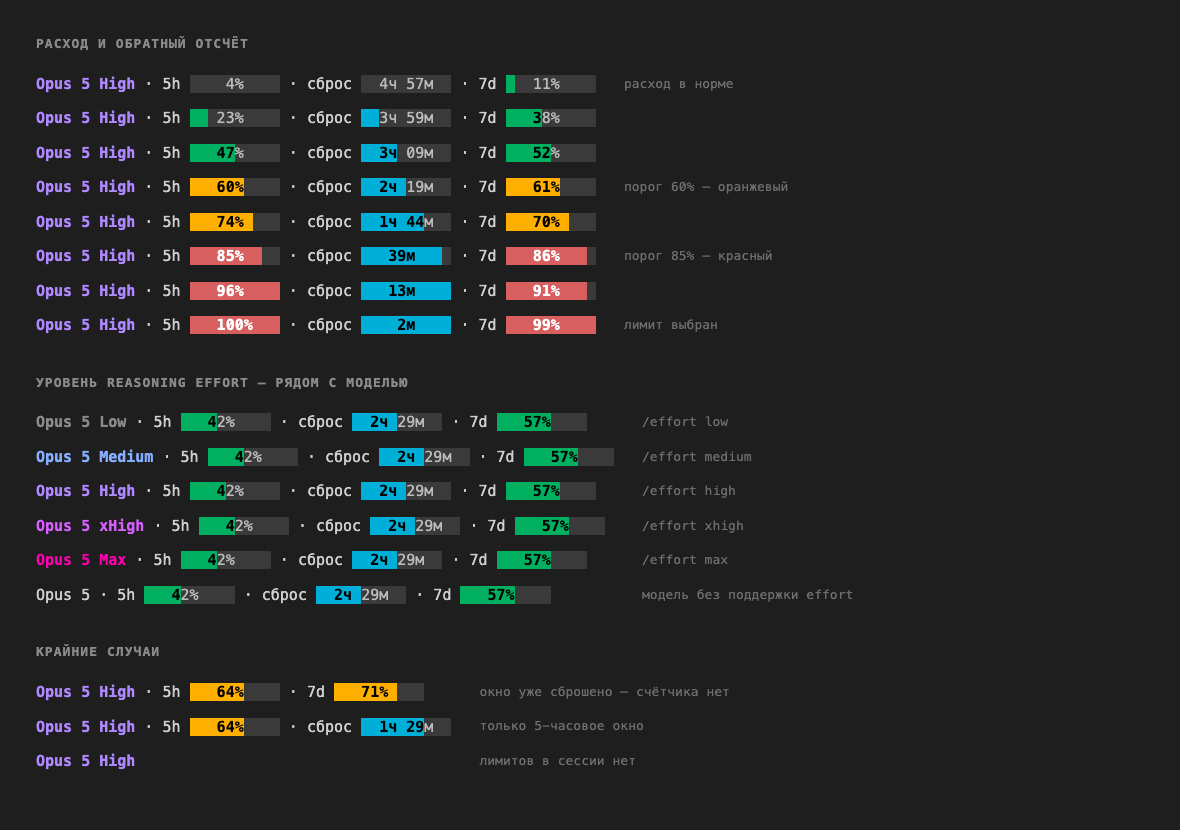
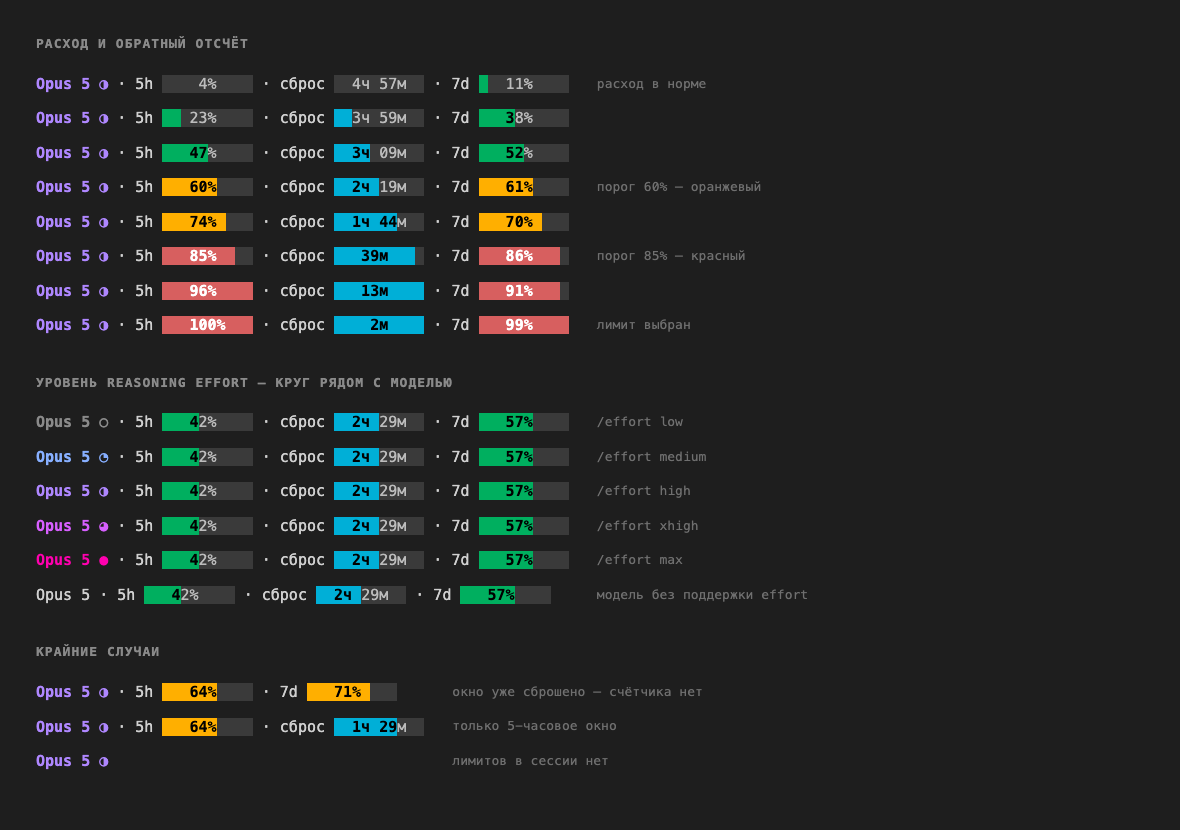
feat: показывать уровень effort фазой круга вместо слова
`Opus 5 High` заметно удлиняло строку. Круг заполняется от `low` (`○`)
до `max` (`●`) — те же символы, что использует сам Claude Code.

diff --git a/docs/statusline-demo.html b/docs/statusline-demo.html
@@ -1,1 +1,1 @@
-<!doctype html><meta charset='utf-8'><title>Строка статуса — состояния</title><style>body{background:#1e1e1e;color:#d0d0d0;font:15px/1.9 'SF Mono',Menlo,monospace;padding:32px 36px;margin:0}h2{font-size:13px;font-weight:600;color:#8a8a8a;letter-spacing:.08em;text-transform:uppercase;margin:28px 0 10px}h2:first-child{margin-top:0}table{border-collapse:collapse}td{padding:3px 0;vertical-align:middle;white-space:nowrap}.note{color:#6f6f6f;font-size:13px;padding-left:28px}</style><h2>Расход и обратный отсчёт</h2><table><tr><td class="line"><span style="color:#af87ff;font-weight:700">Opus&nbsp;5&nbsp;High</span>&nbsp;·&nbsp;5h&nbsp;<span style="color:#bcbcbc;background:#3a3a3a">&nbsp;&nbsp;&nbsp;&nbsp;4%&nbsp;&nbsp;&nbsp;&nbsp;</span>&nbsp;·&nbsp;сброс&nbsp;<span style="color:#bcbcbc;background:#3a3a3a">&nbsp;&nbsp;4ч&nbsp;57м&nbsp;&nbsp;</span>&nbsp;·&nbsp;7d&nbsp;<span style="color:#000000;background:#00af5f;font-weight:700">&nbsp;</span><span style="color:#bcbcbc;background:#3a3a3a">&nbsp;&nbsp;11%&nbsp;&nbsp;&nbsp;&nbsp;</span></td><td class="note">расход в норме</td></tr><tr><td class="line"><span style="color:#af87ff;font-weight:700">Opus&nbsp;5&nbsp;High</span>&nbsp;·&nbsp;5h&nbsp;<span style="color:#000000;background:#00af5f;font-weight:700">&nbsp;&nbsp;</span><span style="color:#bcbcbc;background:#3a3a3a">&nbsp;23%&nbsp;&nbsp;&nbsp;&nbsp;</span>&nbsp;·&nbsp;сброс&nbsp;<span style="color:#000000;background:#00afd7;font-weight:700">&nbsp;&nbsp;</span><span style="color:#bcbcbc;background:#3a3a3a">3ч&nbsp;59м&nbsp;&nbsp;</span>&nbsp;·&nbsp;7d&nbsp;<span style="color:#000000;background:#00af5f;font-weight:700">&nbsp;&nbsp;&nbsp;3</span><span style="color:#bcbcbc;background:#3a3a3a">8%&nbsp;&nbsp;&nbsp;&nbsp;</span></td><td class="note"></td></tr><tr><td class="line"><span style="color:#af87ff;font-weight:700">Opus&nbsp;5&nbsp;High</span>&nbsp;·&nbsp;5h&nbsp;<span style="color:#000000;background:#00af5f;font-weight:700">&nbsp;&nbsp;&nbsp;47</span><span style="color:#bcbcbc;background:#3a3a3a">%&nbsp;&nbsp;&nbsp;&nbsp;</span>&nbsp;·&nbsp;сброс&nbsp;<span style="color:#000000;background:#00afd7;font-weight:700">&nbsp;&nbsp;3ч</span><span style="color:#bcbcbc;background:#3a3a3a">&nbsp;09м&nbsp;&nbsp;</span>&nbsp;·&nbsp;7d&nbsp;<span style="color:#000000;background:#00af5f;font-weight:700">&nbsp;&nbsp;&nbsp;52</span><span style="color:#bcbcbc;background:#3a3a3a">%&nbsp;&nbsp;&nbsp;&nbsp;</span></td><td class="note"></td></tr><tr><td class="line"><span style="color:#af87ff;font-weight:700">Opus&nbsp;5&nbsp;High</span>&nbsp;·&nbsp;5h&nbsp;<span style="color:#000000;background:#ffaf00;font-weight:700">&nbsp;&nbsp;&nbsp;60%</span><span style="color:#bcbcbc;background:#3a3a3a">&nbsp;&nbsp;&nbsp;&nbsp;</span>&nbsp;·&nbsp;сброс&nbsp;<span style="color:#000000;background:#00afd7;font-weight:700">&nbsp;&nbsp;2ч&nbsp;</span><span style="color:#bcbcbc;background:#3a3a3a">19м&nbsp;&nbsp;</span>&nbsp;·&nbsp;7d&nbsp;<span style="color:#000000;background:#ffaf00;font-weight:700">&nbsp;&nbsp;&nbsp;61%</span><span style="color:#bcbcbc;background:#3a3a3a">&nbsp;&nbsp;&nbsp;&nbsp;</span></td><td class="note">порог 60% — оранжевый</td></tr><tr><td class="line"><span style="color:#af87ff;font-weight:700">Opus&nbsp;5&nbsp;High</span>&nbsp;·&nbsp;5h&nbsp;<span style="color:#000000;background:#ffaf00;font-weight:700">&nbsp;&nbsp;&nbsp;74%&nbsp;</span><span style="color:#bcbcbc;background:#3a3a3a">&nbsp;&nbsp;&nbsp;</span>&nbsp;·&nbsp;сброс&nbsp;<span style="color:#000000;background:#00afd7;font-weight:700">&nbsp;&nbsp;1ч&nbsp;44</span><span style="color:#bcbcbc;background:#3a3a3a">м&nbsp;&nbsp;</span>&nbsp;·&nbsp;7d&nbsp;<span style="color:#000000;background:#ffaf00;font-weight:700">&nbsp;&nbsp;&nbsp;70%&nbsp;</span><span style="color:#bcbcbc;background:#3a3a3a">&nbsp;&nbsp;&nbsp;</span></td><td class="note"></td></tr><tr><td class="line"><span style="color:#af87ff;font-weight:700">Opus&nbsp;5&nbsp;High</span>&nbsp;·&nbsp;5h&nbsp;<span style="color:#ffffff;background:#d75f5f;font-weight:700">&nbsp;&nbsp;&nbsp;85%&nbsp;&nbsp;</span><span style="color:#bcbcbc;background:#3a3a3a">&nbsp;&nbsp;</span>&nbsp;·&nbsp;сброс&nbsp;<span style="color:#000000;background:#00afd7;font-weight:700">&nbsp;&nbsp;&nbsp;39м&nbsp;&nbsp;&nbsp;</span><span style="color:#bcbcbc;background:#3a3a3a">&nbsp;</span>&nbsp;·&nbsp;7d&nbsp;<span style="color:#ffffff;background:#d75f5f;font-weight:700">&nbsp;&nbsp;&nbsp;86%&nbsp;&nbsp;&nbsp;</span><span style="color:#bcbcbc;background:#3a3a3a">&nbsp;</span></td><td class="note">порог 85% — красный</td></tr><tr><td class="line"><span style="color:#af87ff;font-weight:700">Opus&nbsp;5&nbsp;High</span>&nbsp;·&nbsp;5h&nbsp;<span style="color:#ffffff;background:#d75f5f;font-weight:700">&nbsp;&nbsp;&nbsp;96%&nbsp;&nbsp;&nbsp;&nbsp;</span>&nbsp;·&nbsp;сброс&nbsp;<span style="color:#000000;background:#00afd7;font-weight:700">&nbsp;&nbsp;&nbsp;13м&nbsp;&nbsp;&nbsp;&nbsp;</span>&nbsp;·&nbsp;7d&nbsp;<span style="color:#ffffff;background:#d75f5f;font-weight:700">&nbsp;&nbsp;&nbsp;91%&nbsp;&nbsp;&nbsp;</span><span style="color:#bcbcbc;background:#3a3a3a">&nbsp;</span></td><td class="note"></td></tr><tr><td class="line"><span style="color:#af87ff;font-weight:700">Opus&nbsp;5&nbsp;High</span>&nbsp;·&nbsp;5h&nbsp;<span style="color:#ffffff;background:#d75f5f;font-weight:700">&nbsp;&nbsp;&nbsp;100%&nbsp;&nbsp;&nbsp;</span>&nbsp;·&nbsp;сброс&nbsp;<span style="color:#000000;background:#00afd7;font-weight:700">&nbsp;&nbsp;&nbsp;&nbsp;2м&nbsp;&nbsp;&nbsp;&nbsp;</span>&nbsp;·&nbsp;7d&nbsp;<span style="color:#ffffff;background:#d75f5f;font-weight:700">&nbsp;&nbsp;&nbsp;99%&nbsp;&nbsp;&nbsp;&nbsp;</span></td><td class="note">лимит выбран</td></tr></table><h2>Уровень reasoning effort — рядом с моделью</h2><table><tr><td class="line"><span style="color:#8a8a8a;font-weight:700">Opus&nbsp;5&nbsp;Low</span>&nbsp;·&nbsp;5h&nbsp;<span style="color:#000000;background:#00af5f;font-weight:700">&nbsp;&nbsp;&nbsp;4</span><span style="color:#bcbcbc;background:#3a3a3a">2%&nbsp;&nbsp;&nbsp;&nbsp;</span>&nbsp;·&nbsp;сброс&nbsp;<span style="color:#000000;background:#00afd7;font-weight:700">&nbsp;&nbsp;2ч&nbsp;</span><span style="color:#bcbcbc;background:#3a3a3a">29м&nbsp;&nbsp;</span>&nbsp;·&nbsp;7d&nbsp;<span style="color:#000000;background:#00af5f;font-weight:700">&nbsp;&nbsp;&nbsp;57%</span><span style="color:#bcbcbc;background:#3a3a3a">&nbsp;&nbsp;&nbsp;&nbsp;</span></td><td class="note">/effort low</td></tr><tr><td class="line"><span style="color:#87afff;font-weight:700">Opus&nbsp;5&nbsp;Medium</span>&nbsp;·&nbsp;5h&nbsp;<span style="color:#000000;background:#00af5f;font-weight:700">&nbsp;&nbsp;&nbsp;4</span><span style="color:#bcbcbc;background:#3a3a3a">2%&nbsp;&nbsp;&nbsp;&nbsp;</span>&nbsp;·&nbsp;сброс&nbsp;<span style="color:#000000;background:#00afd7;font-weight:700">&nbsp;&nbsp;2ч&nbsp;</span><span style="color:#bcbcbc;background:#3a3a3a">29м&nbsp;&nbsp;</span>&nbsp;·&nbsp;7d&nbsp;<span style="color:#000000;background:#00af5f;font-weight:700">&nbsp;&nbsp;&nbsp;57%</span><span style="color:#bcbcbc;background:#3a3a3a">&nbsp;&nbsp;&nbsp;&nbsp;</span></td><td class="note">/effort medium</td></tr><tr><td class="line"><span style="color:#af87ff;font-weight:700">Opus&nbsp;5&nbsp;High</span>&nbsp;·&nbsp;5h&nbsp;<span style="color:#000000;background:#00af5f;font-weight:700">&nbsp;&nbsp;&nbsp;4</span><span style="color:#bcbcbc;background:#3a3a3a">2%&nbsp;&nbsp;&nbsp;&nbsp;</span>&nbsp;·&nbsp;сброс&nbsp;<span style="color:#000000;background:#00afd7;font-weight:700">&nbsp;&nbsp;2ч&nbsp;</span><span style="color:#bcbcbc;background:#3a3a3a">29м&nbsp;&nbsp;</span>&nbsp;·&nbsp;7d&nbsp;<span style="color:#000000;background:#00af5f;font-weight:700">&nbsp;&nbsp;&nbsp;57%</span><span style="color:#bcbcbc;background:#3a3a3a">&nbsp;&nbsp;&nbsp;&nbsp;</span></td><td class="note">/effort high</td></tr><tr><td class="line"><span style="color:#d75fff;font-weight:700">Opus&nbsp;5&nbsp;xHigh</span>&nbsp;·&nbsp;5h&nbsp;<span style="color:#000000;background:#00af5f;font-weight:700">&nbsp;&nbsp;&nbsp;4</span><span style="color:#bcbcbc;background:#3a3a3a">2%&nbsp;&nbsp;&nbsp;&nbsp;</span>&nbsp;·&nbsp;сброс&nbsp;<span style="color:#000000;background:#00afd7;font-weight:700">&nbsp;&nbsp;2ч&nbsp;</span><span style="color:#bcbcbc;background:#3a3a3a">29м&nbsp;&nbsp;</span>&nbsp;·&nbsp;7d&nbsp;<span style="color:#000000;background:#00af5f;font-weight:700">&nbsp;&nbsp;&nbsp;57%</span><span style="color:#bcbcbc;background:#3a3a3a">&nbsp;&nbsp;&nbsp;&nbsp;</span></td><td class="note">/effort xhigh</td></tr><tr><td class="line"><span style="color:#ff00af;font-weight:700">Opus&nbsp;5&nbsp;Max</span>&nbsp;·&nbsp;5h&nbsp;<span style="color:#000000;background:#00af5f;font-weight:700">&nbsp;&nbsp;&nbsp;4</span><span style="color:#bcbcbc;background:#3a3a3a">2%&nbsp;&nbsp;&nbsp;&nbsp;</span>&nbsp;·&nbsp;сброс&nbsp;<span style="color:#000000;background:#00afd7;font-weight:700">&nbsp;&nbsp;2ч&nbsp;</span><span style="color:#bcbcbc;background:#3a3a3a">29м&nbsp;&nbsp;</span>&nbsp;·&nbsp;7d&nbsp;<span style="color:#000000;background:#00af5f;font-weight:700">&nbsp;&nbsp;&nbsp;57%</span><span style="color:#bcbcbc;background:#3a3a3a">&nbsp;&nbsp;&nbsp;&nbsp;</span></td><td class="note">/effort max</td></tr><tr><td class="line">Opus&nbsp;5&nbsp;·&nbsp;5h&nbsp;<span style="color:#000000;background:#00af5f;font-weight:700">&nbsp;&nbsp;&nbsp;4</span><span style="color:#bcbcbc;background:#3a3a3a">2%&nbsp;&nbsp;&nbsp;&nbsp;</span>&nbsp;·&nbsp;сброс&nbsp;<span style="color:#000000;background:#00afd7;font-weight:700">&nbsp;&nbsp;2ч&nbsp;</span><span style="color:#bcbcbc;background:#3a3a3a">29м&nbsp;&nbsp;</span>&nbsp;·&nbsp;7d&nbsp;<span style="color:#000000;background:#00af5f;font-weight:700">&nbsp;&nbsp;&nbsp;57%</span><span style="color:#bcbcbc;background:#3a3a3a">&nbsp;&nbsp;&nbsp;&nbsp;</span></td><td class="note">модель без поддержки effort</td></tr></table><h2>Крайние случаи</h2><table><tr><td class="line"><span style="color:#af87ff;font-weight:700">Opus&nbsp;5&nbsp;High</span>&nbsp;·&nbsp;5h&nbsp;<span style="color:#000000;background:#ffaf00;font-weight:700">&nbsp;&nbsp;&nbsp;64%</span><span style="color:#bcbcbc;background:#3a3a3a">&nbsp;&nbsp;&nbsp;&nbsp;</span>&nbsp;·&nbsp;7d&nbsp;<span style="color:#000000;background:#ffaf00;font-weight:700">&nbsp;&nbsp;&nbsp;71%&nbsp;</span><span style="color:#bcbcbc;background:#3a3a3a">&nbsp;&nbsp;&nbsp;</span></td><td class="note">окно уже сброшено — счётчика нет</td></tr><tr><td class="line"><span style="color:#af87ff;font-weight:700">Opus&nbsp;5&nbsp;High</span>&nbsp;·&nbsp;5h&nbsp;<span style="color:#000000;background:#ffaf00;font-weight:700">&nbsp;&nbsp;&nbsp;64%</span><span style="color:#bcbcbc;background:#3a3a3a">&nbsp;&nbsp;&nbsp;&nbsp;</span>&nbsp;·&nbsp;сброс&nbsp;<span style="color:#000000;background:#00afd7;font-weight:700">&nbsp;&nbsp;1ч&nbsp;29</span><span style="color:#bcbcbc;background:#3a3a3a">м&nbsp;&nbsp;</span></td><td class="note">только 5-часовое окно</td></tr><tr><td class="line"><span style="color:#af87ff;font-weight:700">Opus&nbsp;5&nbsp;High</span></td><td class="note">лимитов в сессии нет</td></tr></table>
+<!doctype html><meta charset='utf-8'><title>Строка статуса — состояния</title><style>body{background:#1e1e1e;color:#d0d0d0;font:15px/1.9 'SF Mono',Menlo,monospace;padding:32px 36px;margin:0}h2{font-size:13px;font-weight:600;color:#8a8a8a;letter-spacing:.08em;text-transform:uppercase;margin:28px 0 10px}h2:first-child{margin-top:0}table{border-collapse:collapse}td{padding:3px 0;vertical-align:middle;white-space:nowrap}.note{color:#6f6f6f;font-size:13px;padding-left:28px}</style><h2>Расход и обратный отсчёт</h2><table><tr><td class="line"><span style="color:#af87ff;font-weight:700">Opus&nbsp;5&nbsp;◑</span>&nbsp;·&nbsp;5h&nbsp;<span style="color:#bcbcbc;background:#3a3a3a">&nbsp;&nbsp;&nbsp;&nbsp;4%&nbsp;&nbsp;&nbsp;&nbsp;</span>&nbsp;·&nbsp;сброс&nbsp;<span style="color:#bcbcbc;background:#3a3a3a">&nbsp;&nbsp;4ч&nbsp;57м&nbsp;&nbsp;</span>&nbsp;·&nbsp;7d&nbsp;<span style="color:#000000;background:#00af5f;font-weight:700">&nbsp;</span><span style="color:#bcbcbc;background:#3a3a3a">&nbsp;&nbsp;11%&nbsp;&nbsp;&nbsp;&nbsp;</span></td><td class="note">расход в норме</td></tr><tr><td class="line"><span style="color:#af87ff;font-weight:700">Opus&nbsp;5&nbsp;◑</span>&nbsp;·&nbsp;5h&nbsp;<span style="color:#000000;background:#00af5f;font-weight:700">&nbsp;&nbsp;</span><span style="color:#bcbcbc;background:#3a3a3a">&nbsp;23%&nbsp;&nbsp;&nbsp;&nbsp;</span>&nbsp;·&nbsp;сброс&nbsp;<span style="color:#000000;background:#00afd7;font-weight:700">&nbsp;&nbsp;</span><span style="color:#bcbcbc;background:#3a3a3a">3ч&nbsp;59м&nbsp;&nbsp;</span>&nbsp;·&nbsp;7d&nbsp;<span style="color:#000000;background:#00af5f;font-weight:700">&nbsp;&nbsp;&nbsp;3</span><span style="color:#bcbcbc;background:#3a3a3a">8%&nbsp;&nbsp;&nbsp;&nbsp;</span></td><td class="note"></td></tr><tr><td class="line"><span style="color:#af87ff;font-weight:700">Opus&nbsp;5&nbsp;◑</span>&nbsp;·&nbsp;5h&nbsp;<span style="color:#000000;background:#00af5f;font-weight:700">&nbsp;&nbsp;&nbsp;47</span><span style="color:#bcbcbc;background:#3a3a3a">%&nbsp;&nbsp;&nbsp;&nbsp;</span>&nbsp;·&nbsp;сброс&nbsp;<span style="color:#000000;background:#00afd7;font-weight:700">&nbsp;&nbsp;3ч</span><span style="color:#bcbcbc;background:#3a3a3a">&nbsp;09м&nbsp;&nbsp;</span>&nbsp;·&nbsp;7d&nbsp;<span style="color:#000000;background:#00af5f;font-weight:700">&nbsp;&nbsp;&nbsp;52</span><span style="color:#bcbcbc;background:#3a3a3a">%&nbsp;&nbsp;&nbsp;&nbsp;</span></td><td class="note"></td></tr><tr><td class="line"><span style="color:#af87ff;font-weight:700">Opus&nbsp;5&nbsp;◑</span>&nbsp;·&nbsp;5h&nbsp;<span style="color:#000000;background:#ffaf00;font-weight:700">&nbsp;&nbsp;&nbsp;60%</span><span style="color:#bcbcbc;background:#3a3a3a">&nbsp;&nbsp;&nbsp;&nbsp;</span>&nbsp;·&nbsp;сброс&nbsp;<span style="color:#000000;background:#00afd7;font-weight:700">&nbsp;&nbsp;2ч&nbsp;</span><span style="color:#bcbcbc;background:#3a3a3a">19м&nbsp;&nbsp;</span>&nbsp;·&nbsp;7d&nbsp;<span style="color:#000000;background:#ffaf00;font-weight:700">&nbsp;&nbsp;&nbsp;61%</span><span style="color:#bcbcbc;background:#3a3a3a">&nbsp;&nbsp;&nbsp;&nbsp;</span></td><td class="note">порог 60% — оранжевый</td></tr><tr><td class="line"><span style="color:#af87ff;font-weight:700">Opus&nbsp;5&nbsp;◑</span>&nbsp;·&nbsp;5h&nbsp;<span style="color:#000000;background:#ffaf00;font-weight:700">&nbsp;&nbsp;&nbsp;74%&nbsp;</span><span style="color:#bcbcbc;background:#3a3a3a">&nbsp;&nbsp;&nbsp;</span>&nbsp;·&nbsp;сброс&nbsp;<span style="color:#000000;background:#00afd7;font-weight:700">&nbsp;&nbsp;1ч&nbsp;44</span><span style="color:#bcbcbc;background:#3a3a3a">м&nbsp;&nbsp;</span>&nbsp;·&nbsp;7d&nbsp;<span style="color:#000000;background:#ffaf00;font-weight:700">&nbsp;&nbsp;&nbsp;70%&nbsp;</span><span style="color:#bcbcbc;background:#3a3a3a">&nbsp;&nbsp;&nbsp;</span></td><td class="note"></td></tr><tr><td class="line"><span style="color:#af87ff;font-weight:700">Opus&nbsp;5&nbsp;◑</span>&nbsp;·&nbsp;5h&nbsp;<span style="color:#ffffff;background:#d75f5f;font-weight:700">&nbsp;&nbsp;&nbsp;85%&nbsp;&nbsp;</span><span style="color:#bcbcbc;background:#3a3a3a">&nbsp;&nbsp;</span>&nbsp;·&nbsp;сброс&nbsp;<span style="color:#000000;background:#00afd7;font-weight:700">&nbsp;&nbsp;&nbsp;39м&nbsp;&nbsp;&nbsp;</span><span style="color:#bcbcbc;background:#3a3a3a">&nbsp;</span>&nbsp;·&nbsp;7d&nbsp;<span style="color:#ffffff;background:#d75f5f;font-weight:700">&nbsp;&nbsp;&nbsp;86%&nbsp;&nbsp;&nbsp;</span><span style="color:#bcbcbc;background:#3a3a3a">&nbsp;</span></td><td class="note">порог 85% — красный</td></tr><tr><td class="line"><span style="color:#af87ff;font-weight:700">Opus&nbsp;5&nbsp;◑</span>&nbsp;·&nbsp;5h&nbsp;<span style="color:#ffffff;background:#d75f5f;font-weight:700">&nbsp;&nbsp;&nbsp;96%&nbsp;&nbsp;&nbsp;&nbsp;</span>&nbsp;·&nbsp;сброс&nbsp;<span style="color:#000000;background:#00afd7;font-weight:700">&nbsp;&nbsp;&nbsp;13м&nbsp;&nbsp;&nbsp;&nbsp;</span>&nbsp;·&nbsp;7d&nbsp;<span style="color:#ffffff;background:#d75f5f;font-weight:700">&nbsp;&nbsp;&nbsp;91%&nbsp;&nbsp;&nbsp;</span><span style="color:#bcbcbc;background:#3a3a3a">&nbsp;</span></td><td class="note"></td></tr><tr><td class="line"><span style="color:#af87ff;font-weight:700">Opus&nbsp;5&nbsp;◑</span>&nbsp;·&nbsp;5h&nbsp;<span style="color:#ffffff;background:#d75f5f;font-weight:700">&nbsp;&nbsp;&nbsp;100%&nbsp;&nbsp;&nbsp;</span>&nbsp;·&nbsp;сброс&nbsp;<span style="color:#000000;background:#00afd7;font-weight:700">&nbsp;&nbsp;&nbsp;&nbsp;2м&nbsp;&nbsp;&nbsp;&nbsp;</span>&nbsp;·&nbsp;7d&nbsp;<span style="color:#ffffff;background:#d75f5f;font-weight:700">&nbsp;&nbsp;&nbsp;99%&nbsp;&nbsp;&nbsp;&nbsp;</span></td><td class="note">лимит выбран</td></tr></table><h2>Уровень reasoning effort — круг рядом с моделью</h2><table><tr><td class="line"><span style="color:#8a8a8a;font-weight:700">Opus&nbsp;5&nbsp;○</span>&nbsp;·&nbsp;5h&nbsp;<span style="color:#000000;background:#00af5f;font-weight:700">&nbsp;&nbsp;&nbsp;4</span><span style="color:#bcbcbc;background:#3a3a3a">2%&nbsp;&nbsp;&nbsp;&nbsp;</span>&nbsp;·&nbsp;сброс&nbsp;<span style="color:#000000;background:#00afd7;font-weight:700">&nbsp;&nbsp;2ч&nbsp;</span><span style="color:#bcbcbc;background:#3a3a3a">29м&nbsp;&nbsp;</span>&nbsp;·&nbsp;7d&nbsp;<span style="color:#000000;background:#00af5f;font-weight:700">&nbsp;&nbsp;&nbsp;57%</span><span style="color:#bcbcbc;background:#3a3a3a">&nbsp;&nbsp;&nbsp;&nbsp;</span></td><td class="note">/effort low</td></tr><tr><td class="line"><span style="color:#87afff;font-weight:700">Opus&nbsp;5&nbsp;◔</span>&nbsp;·&nbsp;5h&nbsp;<span style="color:#000000;background:#00af5f;font-weight:700">&nbsp;&nbsp;&nbsp;4</span><span style="color:#bcbcbc;background:#3a3a3a">2%&nbsp;&nbsp;&nbsp;&nbsp;</span>&nbsp;·&nbsp;сброс&nbsp;<span style="color:#000000;background:#00afd7;font-weight:700">&nbsp;&nbsp;2ч&nbsp;</span><span style="color:#bcbcbc;background:#3a3a3a">29м&nbsp;&nbsp;</span>&nbsp;·&nbsp;7d&nbsp;<span style="color:#000000;background:#00af5f;font-weight:700">&nbsp;&nbsp;&nbsp;57%</span><span style="color:#bcbcbc;background:#3a3a3a">&nbsp;&nbsp;&nbsp;&nbsp;</span></td><td class="note">/effort medium</td></tr><tr><td class="line"><span style="color:#af87ff;font-weight:700">Opus&nbsp;5&nbsp;◑</span>&nbsp;·&nbsp;5h&nbsp;<span style="color:#000000;background:#00af5f;font-weight:700">&nbsp;&nbsp;&nbsp;4</span><span style="color:#bcbcbc;background:#3a3a3a">2%&nbsp;&nbsp;&nbsp;&nbsp;</span>&nbsp;·&nbsp;сброс&nbsp;<span style="color:#000000;background:#00afd7;font-weight:700">&nbsp;&nbsp;2ч&nbsp;</span><span style="color:#bcbcbc;background:#3a3a3a">29м&nbsp;&nbsp;</span>&nbsp;·&nbsp;7d&nbsp;<span style="color:#000000;background:#00af5f;font-weight:700">&nbsp;&nbsp;&nbsp;57%</span><span style="color:#bcbcbc;background:#3a3a3a">&nbsp;&nbsp;&nbsp;&nbsp;</span></td><td class="note">/effort high</td></tr><tr><td class="line"><span style="color:#d75fff;font-weight:700">Opus&nbsp;5&nbsp;◕</span>&nbsp;·&nbsp;5h&nbsp;<span style="color:#000000;background:#00af5f;font-weight:700">&nbsp;&nbsp;&nbsp;4</span><span style="color:#bcbcbc;background:#3a3a3a">2%&nbsp;&nbsp;&nbsp;&nbsp;</span>&nbsp;·&nbsp;сброс&nbsp;<span style="color:#000000;background:#00afd7;font-weight:700">&nbsp;&nbsp;2ч&nbsp;</span><span style="color:#bcbcbc;background:#3a3a3a">29м&nbsp;&nbsp;</span>&nbsp;·&nbsp;7d&nbsp;<span style="color:#000000;background:#00af5f;font-weight:700">&nbsp;&nbsp;&nbsp;57%</span><span style="color:#bcbcbc;background:#3a3a3a">&nbsp;&nbsp;&nbsp;&nbsp;</span></td><td class="note">/effort xhigh</td></tr><tr><td class="line"><span style="color:#ff00af;font-weight:700">Opus&nbsp;5&nbsp;●</span>&nbsp;·&nbsp;5h&nbsp;<span style="color:#000000;background:#00af5f;font-weight:700">&nbsp;&nbsp;&nbsp;4</span><span style="color:#bcbcbc;background:#3a3a3a">2%&nbsp;&nbsp;&nbsp;&nbsp;</span>&nbsp;·&nbsp;сброс&nbsp;<span style="color:#000000;background:#00afd7;font-weight:700">&nbsp;&nbsp;2ч&nbsp;</span><span style="color:#bcbcbc;background:#3a3a3a">29м&nbsp;&nbsp;</span>&nbsp;·&nbsp;7d&nbsp;<span style="color:#000000;background:#00af5f;font-weight:700">&nbsp;&nbsp;&nbsp;57%</span><span style="color:#bcbcbc;background:#3a3a3a">&nbsp;&nbsp;&nbsp;&nbsp;</span></td><td class="note">/effort max</td></tr><tr><td class="line">Opus&nbsp;5&nbsp;·&nbsp;5h&nbsp;<span style="color:#000000;background:#00af5f;font-weight:700">&nbsp;&nbsp;&nbsp;4</span><span style="color:#bcbcbc;background:#3a3a3a">2%&nbsp;&nbsp;&nbsp;&nbsp;</span>&nbsp;·&nbsp;сброс&nbsp;<span style="color:#000000;background:#00afd7;font-weight:700">&nbsp;&nbsp;2ч&nbsp;</span><span style="color:#bcbcbc;background:#3a3a3a">29м&nbsp;&nbsp;</span>&nbsp;·&nbsp;7d&nbsp;<span style="color:#000000;background:#00af5f;font-weight:700">&nbsp;&nbsp;&nbsp;57%</span><span style="color:#bcbcbc;background:#3a3a3a">&nbsp;&nbsp;&nbsp;&nbsp;</span></td><td class="note">модель без поддержки effort</td></tr></table><h2>Крайние случаи</h2><table><tr><td class="line"><span style="color:#af87ff;font-weight:700">Opus&nbsp;5&nbsp;◑</span>&nbsp;·&nbsp;5h&nbsp;<span style="color:#000000;background:#ffaf00;font-weight:700">&nbsp;&nbsp;&nbsp;64%</span><span style="color:#bcbcbc;background:#3a3a3a">&nbsp;&nbsp;&nbsp;&nbsp;</span>&nbsp;·&nbsp;7d&nbsp;<span style="color:#000000;background:#ffaf00;font-weight:700">&nbsp;&nbsp;&nbsp;71%&nbsp;</span><span style="color:#bcbcbc;background:#3a3a3a">&nbsp;&nbsp;&nbsp;</span></td><td class="note">окно уже сброшено — счётчика нет</td></tr><tr><td class="line"><span style="color:#af87ff;font-weight:700">Opus&nbsp;5&nbsp;◑</span>&nbsp;·&nbsp;5h&nbsp;<span style="color:#000000;background:#ffaf00;font-weight:700">&nbsp;&nbsp;&nbsp;64%</span><span style="color:#bcbcbc;background:#3a3a3a">&nbsp;&nbsp;&nbsp;&nbsp;</span>&nbsp;·&nbsp;сброс&nbsp;<span style="color:#000000;background:#00afd7;font-weight:700">&nbsp;&nbsp;1ч&nbsp;29</span><span style="color:#bcbcbc;background:#3a3a3a">м&nbsp;&nbsp;</span></td><td class="note">только 5-часовое окно</td></tr><tr><td class="line"><span style="color:#af87ff;font-weight:700">Opus&nbsp;5&nbsp;◑</span></td><td class="note">лимитов в сессии нет</td></tr></table>

diff --git a/divoom/font.go b/divoom/font.go
@@ -1,0 +1,74 @@
+package main
+
+// Битмапный шрифт 5×7. Панель — 128×128 пикселей, шрифтовых движков в
+// зависимостях нет и не нужно: цифр, процента и пары букв хватает на всё,
+// что помещается на такой экран.
+var glyphs = map[rune][7]string{
+	'0': {"01110", "10001", "10011", "10101", "11001", "10001", "01110"},
+	'1': {"00100", "01100", "00100", "00100", "00100", "00100", "01110"},
+	'2': {"01110", "10001", "00001", "00010", "00100", "01000", "11111"},
+	'3': {"11110", "00001", "00001", "01110", "00001", "00001", "11110"},
+	'4': {"00010", "00110", "01010", "10010", "11111", "00010", "00010"},
+	'5': {"11111", "10000", "11110", "00001", "00001", "10001", "01110"},
+	'6': {"00110", "01000", "10000", "11110", "10001", "10001", "01110"},
+	'7': {"11111", "00001", "00010", "00100", "01000", "01000", "01000"},
+	'8': {"01110", "10001", "10001", "01110", "10001", "10001", "01110"},
+	'9': {"01110", "10001", "10001", "01111", "00001", "00010", "01100"},
+	'%': {"11001", "11010", "00010", "00100", "01000", "01011", "10011"},
+	':': {"00000", "00100", "00100", "00000", "00100", "00100", "00000"},
+	'.': {"00000", "00000", "00000", "00000", "00000", "01100", "01100"},
+	'-': {"00000", "00000", "00000", "01110", "00000", "00000", "00000"},
+	'H': {"10001", "10001", "10001", "11111", "10001", "10001", "10001"},
+	'D': {"11110", "10001", "10001", "10001", "10001", "10001", "11110"},
+	'W': {"10001", "10001", "10001", "10101", "10101", "11011", "10001"},
+	'O': {"01110", "10001", "10001", "10001", "10001", "10001", "01110"},
+	'P': {"11110", "10001", "10001", "11110", "10000", "10000", "10000"},
+	'U': {"10001", "10001", "10001", "10001", "10001", "10001", "01110"},
+	'S': {"01111", "10000", "10000", "01110", "00001", "00001", "11110"},
+	'E': {"11111", "10000", "10000", "11110", "10000", "10000", "11111"},
+	'T': {"11111", "00100", "00100", "00100", "00100", "00100", "00100"},
+	'A': {"01110", "10001", "10001", "11111", "10001", "10001", "10001"},
+	'L': {"10000", "10000", "10000", "10000", "10000", "10000", "11111"},
+	'?': {"01110", "10001", "00001", "00010", "00100", "00000", "00100"},
+	' ': {"00000", "00000", "00000", "00000", "00000", "00000", "00000"},
+}
+
+const (
+	glyphWidth  = 5
+	glyphHeight = 7
+)
+
+// textWidth — ширина строки в пикселях при заданном масштабе, с пробелом в
+// один пиксель между глифами.
+func textWidth(text string, scale int) int {
+	runes := []rune(text)
+	if len(runes) == 0 {
+		return 0
+	}
+	return len(runes)*(glyphWidth*scale+scale) - scale
+}
+
+// drawText рисует строку от левого верхнего угла (x, y) цветом idx.
+func (p *panel) drawText(text string, x, y, scale int, idx uint8) {
+	cursor := x
+	for _, r := range text {
+		glyph, ok := glyphs[r]
+		if !ok {
+			glyph = glyphs['?']
+		}
+		for row := 0; row < glyphHeight; row++ {
+			for col := 0; col < glyphWidth; col++ {
+				if glyph[row][col] != '1' {
+					continue
+				}
+				p.fillRect(cursor+col*scale, y+row*scale, scale, scale, idx)
+			}
+		}
+		cursor += glyphWidth*scale + scale
+	}
+}
+
+// drawTextCentered центрирует строку по горизонтали относительно всей панели.
+func (p *panel) drawTextCentered(text string, y, scale int, idx uint8) {
+	p.drawText(text, (panelSize-textWidth(text, scale))/2, y, scale, idx)
+}

diff --git a/statusline/main.go b/statusline/main.go
@@ -34,17 +34,18 @@ const (
 	colorLightText = 231
 )
 
-// Шкала уровня reasoning effort: намеренно в фиолетово-розовой гамме,
-// чтобы не путалась с зелёным/оранжевым/красным полос расхода.
+// Шкала уровня reasoning effort: фазы круга — те же символы, что и у самого
+// Claude Code. Цвет намеренно в фиолетово-розовой гамме, чтобы не путался
+// с зелёным/оранжевым/красным полос расхода.
 var effortStyles = map[string]struct {
-	label string
+	mark  string
 	color int
 }{
-	"low":    {"Low", 245},
-	"medium": {"Medium", 111},
-	"high":   {"High", 141},
-	"xhigh":  {"xHigh", 171},
-	"max":    {"Max", 199},
+	"low":    {"○", 245},
+	"medium": {"◔", 111},
+	"high":   {"◑", 141},
+	"xhigh":  {"◕", 171},
+	"max":    {"●", 199},
 }
 
 type sessionInput struct {
@@ -85,10 +86,10 @@ func main() {
 	var parts []string
 
 	if name := input.Model.DisplayName; name != "" {
-		// Уровень пишем рядом с моделью: цвет отличает уровни друг от друга,
-		// но не говорит, какой именно сейчас включён.
+		// Уровень показываем рядом с моделью: заполненность круга читается
+		// и без цвета, а места занимает один символ вместо слова.
 		if style, ok := effortStyles[input.Effort.Level]; ok {
-			name = colorized(name+" "+style.label, style.color)
+			name = colorized(name+" "+style.mark, style.color)
 		}
 		parts = append(parts, name)
 	}

diff --git a/docs/render-demo.py b/docs/render-demo.py
@@ -154,7 +154,7 @@ def main() -> None:
         for level in ("low", "medium", "high", "xhigh", "max")
     ]
     efforts.append(("модель без поддержки effort", session(five=42, week=57, left=2 * 3600 + 30 * 60)))
-    sections.append(("Уровень reasoning effort — рядом с моделью", efforts))
+    sections.append(("Уровень reasoning effort — круг рядом с моделью", efforts))
 
     edges = [
         ("окно уже сброшено — счётчика нет", session(effort="high", five=64, week=71)),

diff --git a/README.md b/README.md
@@ -26,12 +26,12 @@ Windows — `.\run.ps1`.
 ## Строка статуса
 
 ```
-Opus 5 High · 5h ▕   24%    ▏ · сброс ▕  2ч 45м  ▏ · 7d ▕   57%    ▏
+Opus 5 ◕ · 5h ▕   24%    ▏ · сброс ▕  2ч 45м  ▏ · 7d ▕   57%    ▏
 ```
 
-Модель с текущим уровнем `/effort`, пятичасовое окно, время до его сброса и недельное
-окно. Цвет полос — по расходу (зелёный до 60%, оранжевый до 85%, дальше красный),
-цвет модели — по уровню effort:
+Модель, текущий уровень `/effort`, пятичасовое окно, время до его сброса и недельное
+окно. Круг рядом с моделью заполняется от `low` (`○`) до `max` (`●`). Цвет полос —
+по расходу: зелёный до 60%, оранжевый до 85%, дальше красный.
 
 ![Состояния строки статуса](docs/statusline-demo.png)
 
